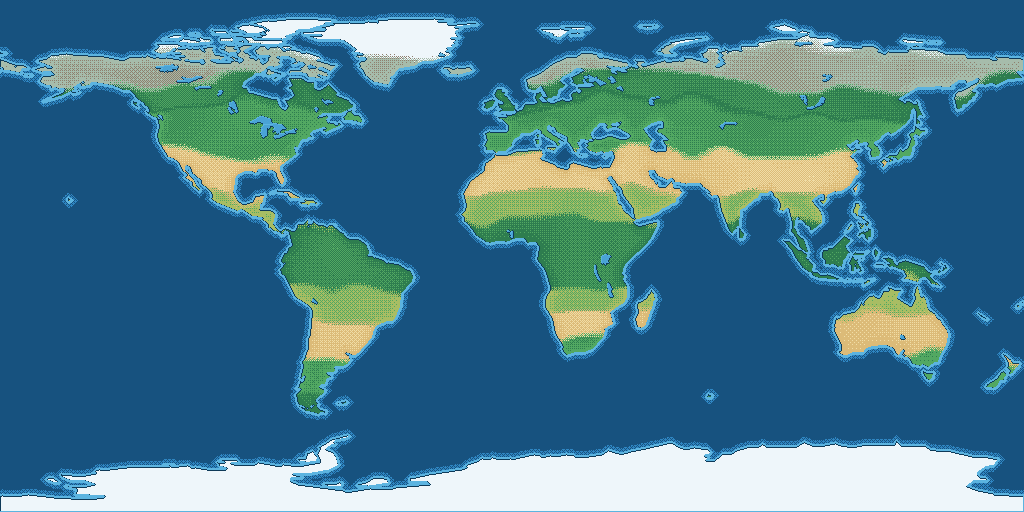
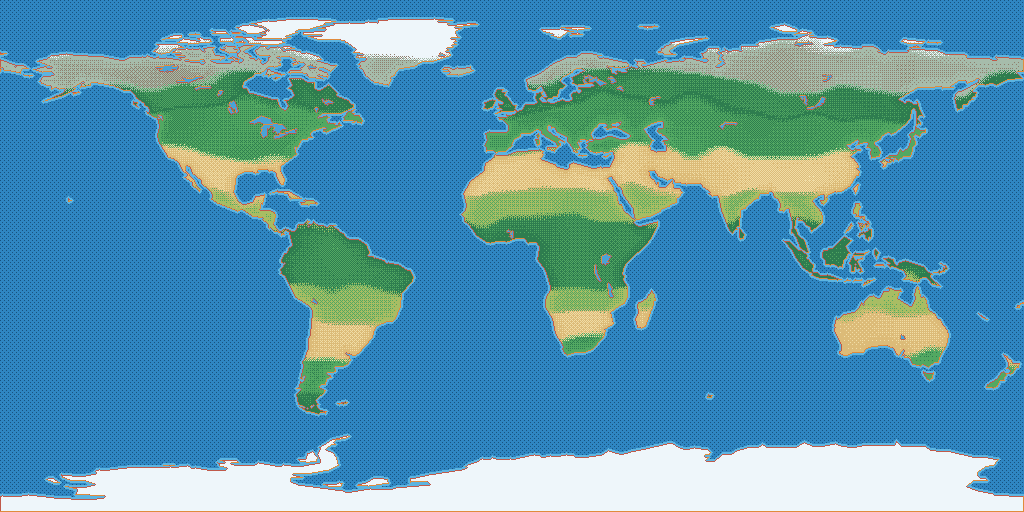
Cutaway cabin, orange seats, and the reference-style world map
Applied from the Pocket Planes reference set (qualities, not assets):

- The Trailhopper side profile is now a true cutaway: the fuselage side is open,
  showing a bright cabin band and an open hold. The bands are empty in the
  sprite — the game draws seats, passengers and crates onto the anchors, so the
  interior always shows the actual manifest. Six seat anchors on a four-seat
  airframe: the band is sized for the upgraded aircraft, so Cabin Plus visibly
  adds seats. A tiny pilot sits in the windscreen.
- Seats are bright orange against the white interior, per the reference.
- World map: bright saturated ocean as the base (a dark base reads as a void),
  pale shelf hugging the land, and a warm red-orange coastline that makes
  landmasses pop instead of dissolving into the sea.
- PixelLab: the cutaway direction is locked in the spec. bitforge (style-locked
  generation) is currently returning 500s server-side, and pixflux could not be
  steered to a true open-cabin cutaway (two candidates rejected: no interior /
  wrong facing), so the cutaway ships from the deterministic pipeline and the
  windowed production side sprite is retired to production/_retired/.

diff --git a/tools/pixelart/aircraft_side.py b/tools/pixelart/aircraft_side.py
@@ -56,14 +56,19 @@ class CharmSide:
 
 
 TRAILHOPPER = CharmSide(
-    canvas=(144, 96),
-    body_length=100, body_height=46,
-    nose_start=0.84, tail_end=0.24, tail_keep=0.34,
-    fin_height=28, fin_root=26,
-    gear_height=12, wheel_radius=8, prop_radius=19,
-    seat_slot=11, seats=4, seat_start=30, seat_step=13,
-    cargo_slot=11, cargo_slots=3, cargo_start=30, cargo_step=13,
-    seat_row_y=6, cargo_row_y=24,
+    # Longer than the first pass: the cutaway band needs runway. The band must
+    # end before the nose begins or it eats the windscreen, and it may overlap
+    # the tail cone only slightly.
+    canvas=(176, 96),
+    body_length=132, body_height=44,
+    nose_start=0.82, tail_end=0.20, tail_keep=0.36,
+    fin_height=27, fin_root=25,
+    gear_height=12, wheel_radius=8, prop_radius=16,
+    # Six seat anchors, not four: the cabin band is sized for the upgraded
+    # aircraft, so buying Cabin Plus visibly adds seats to the same airframe.
+    seat_slot=10, seats=6, seat_start=27, seat_step=12,
+    cargo_slot=10, cargo_slots=4, cargo_start=33, cargo_step=12,
+    seat_row_y=5, cargo_row_y=22,
 )
 
 
@@ -170,33 +175,37 @@ def _body(canvas: Canvas, style: CharmSide, livery: dict[str, str],
 
 def _cabin(canvas: Canvas, style: CharmSide, livery: dict[str, str],
            seats: list[tuple[int, int]], cargo: list[tuple[int, int]], station) -> None:
-    """Window frames and the cargo bay opening.
+    """The open cutaway interior — the defining feature of the plane screen.
 
-    Both are drawn as empty recesses. The game fills them with passengers and
-    crates, so what the player sees in them is the actual manifest.
+    Instead of windows, the fuselage side is cut away to show a bright cabin
+    band and an open hold. The band itself is empty: the game draws seats,
+    passengers and crates onto the anchors, so what the player sees inside the
+    aircraft is always the actual manifest (and upgrades add real seats).
     """
     slot = style.seat_slot
-    for x, y in seats:
-        canvas.rect(x, y, slot, slot, "glass")
-        canvas.rect_outline(x - 1, y - 1, slot + 2, slot + 2, livery["dark"])
-        canvas.hline(x, x + slot - 1, y, "glass_light")
+    if seats:
+        x0 = seats[0][0] - 2
+        x1 = seats[-1][0] + slot + 2
+        y0 = seats[0][1] - 2
+        height = slot + 5
+        canvas.rect(x0, y0, x1 - x0, height, "white")
+        canvas.hline(x0, x1 - 1, y0 + height - 2, "ice")        # cabin floor
+        canvas.hline(x0, x1 - 1, y0 + height - 1, "ice")
+        canvas.hline(x0, x1 - 1, y0, "ice_light")               # ceiling shade
+        canvas.rect_outline(x0 - 1, y0 - 1, x1 - x0 + 2, height + 2, livery["dark"])
+        canvas.rect_outline(x0, y0, x1 - x0, height, "outline")
 
     bay = style.cargo_slot
     if cargo:
         left = cargo[0][0] - 2
-        right = cargo[-1][0] + bay + 1
+        right = cargo[-1][0] + bay + 2
         top = cargo[0][1] - 2
-        # A lit interior, not a black cut-out: an unlit bay reads as a hole
-        # punched through the fuselage rather than as a space you can fill.
-        canvas.rect(left, top, right - left, bay + 3, "wall")
-        canvas.hline(left, right - 1, top, "shadow")
-        canvas.hline(left, right - 1, top + bay + 2, "wall_light")
-        canvas.rect_outline(left, top, right - left, bay + 3, livery["dark"])
-        for x, _y in cargo[1:]:
-            canvas.vline(x - 1, top + 1, top + bay + 1, "shadow")
-        # Open hatch flap above the bay: "this is where it loads".
-        canvas.rect(left + 1, top - 3, right - left - 2, 2, livery["light"])
-        canvas.hline(left + 1, right - 2, top - 3, livery["dark"])
+        height = bay + 4
+        canvas.rect(left, top, right - left, height, "ice_light")
+        canvas.hline(left, right - 1, top + height - 2, "ice")   # hold floor
+        canvas.hline(left, right - 1, top + height - 1, "ice")
+        canvas.rect_outline(left - 1, top - 1, right - left + 2, height + 2, livery["dark"])
+        canvas.rect_outline(left, top, right - left, height, "outline")
 
 
 def _wing(canvas: Canvas, style: CharmSide, livery: dict[str, str],
@@ -255,6 +264,12 @@ def _nose(canvas: Canvas, style: CharmSide, livery: dict[str, str],
         for dy in range(rows):
             canvas.plot(x, top + 2 + dy, "glass_light" if dy == 0 else "glass")
     canvas.vline(back - 1, station(back)[0] + 2, station(back)[0] + 10, "metal_dark")
+    # The pilot, visible through the glass: two pixels of person that make the
+    # aircraft read as crewed rather than empty.
+    var_top = station(back + 2)[0]
+    canvas.rect(back + 2, var_top + 4, 3, 3, "sand_light")
+    canvas.hline(back + 2, back + 4, var_top + 4, "soil")
+    canvas.rect(back + 2, var_top + 7, 3, 2, "btn_green")
 
     # Cowl.
     for x in range(nose - 5, nose + 1):

diff --git a/tools/artgen/spec.py b/tools/artgen/spec.py
@@ -29,7 +29,7 @@ NEGATIVE = (
     "gradient, colour banding, glow, noisy dithering, technical diagram, "
     "blueprint, schematic, cluttered detail, rivets, text, letters, numbers, "
     "logo, watermark, drop shadow, realistic proportions, long thin fuselage, "
-    "many wheels, landing gear bogies, facing left, jet engines"
+    "many wheels, landing gear bogies, facing left, jet engines, closed windows, portholes"
 )
 
 # Structured controls, chosen to match docs/PIXEL_STYLE_GUIDE.md exactly.
@@ -93,9 +93,10 @@ STARTER: list[AssetSpec] = [
             "side view of a tiny chunky cartoon bush aeroplane facing right, "
             "propeller and round nose at the right edge, tall tail fin at the "
             "left edge, stubby rounded fuselage twice as long as it is tall, "
-            "high wing, exactly four big round passenger windows in one row, "
-            "exactly two fat black wheels on short legs, cream body with an "
-            "orange belly stripe, flat blocks of solid colour with no gradients"
+            "open cutaway fuselage showing a bright white cabin interior with "
+            "a row of four empty orange passenger seats, high wing, exactly "
+            "two fat black wheels on short legs, cream body with an orange "
+            "belly stripe, flat blocks of solid colour with no gradients"
         ),
         size=(128, 96), view="side", direction="west", coverage=86.0,
         is_reference=True,
@@ -219,6 +220,17 @@ STARTER: list[AssetSpec] = [
         size=(16, 16), view="side", detail="low detail", coverage=80.0,
     ),
 ]
+
+
+STARTER.append(AssetSpec(
+    key="cloud",
+    logical="world/cloud_1.png",
+    prompt=(
+        "a single fluffy cartoon cloud, flat bottom, puffy rounded top, pure "
+        "white with pale ice-blue shading underneath, chunky and simple"
+    ),
+    size=(36, 16), view="side", detail="low detail", coverage=86.0,
+))
 
 
 def by_key(key: str) -> AssetSpec | None:

diff --git a/tools/build_world_geometry.py b/tools/build_world_geometry.py
@@ -51,8 +51,10 @@ BASE_URL = "https://raw.githubusercontent.com/nvkelso/natural-earth-vector/maste
 OCEAN_DEEP = "map_ocean_deep"
 OCEAN = "map_ocean"
 SHELF = "map_shelf"
-COAST = "map_coast"
-COAST_LIT = "map_shelf"
+# Warm coastline against saturated blue: the outline that makes landmasses pop
+# from the ocean instead of dissolving into it.
+COAST = "accent_red"
+COAST_LIT = "accent_orange"
 LAKE = "map_river"
 BORDER = "map_coast"
 
@@ -359,13 +361,14 @@ def render(lod: Lod) -> Image.Image:
 
     field = bayer(lod.height, lod.width)
     rgb_buffer = np.zeros((lod.height, lod.width, 3), dtype=np.uint8)
-    rgb_buffer[:] = rgb(OCEAN_DEEP)
 
     # Shelf and open-ocean rings separate land from deep water without relying
     # on the coastline outline to do all the work.
+    # Bright ocean as the base — a dark base reads as a void, not a sea — with
+    # only a light sparkle of deep water and a pale shelf hugging the land.
+    rgb_buffer[:] = rgb(OCEAN)
+    dither_mix(rgb_buffer, ~land, OCEAN, OCEAN_DEEP, 0.12, field)
     shelf = dilate(land, lod.shelf_px) & ~land
-    open_ocean = dilate(land, lod.shelf_px * 3) & ~land & ~shelf
-    dither_mix(rgb_buffer, open_ocean, OCEAN, OCEAN_DEEP, 0.35, field)
     rgb_buffer[shelf] = rgb(SHELF)
 
     # Land colour by latitude band, with the interior stippled darker.

diff --git a/tools/pixelart/scenery.py b/tools/pixelart/scenery.py
@@ -477,14 +477,14 @@ def portrait(hair: str, shirt: str) -> Canvas:
 
 
 def seat_empty() -> Canvas:
-    """An empty cabin seat, drawn into a window slot so 0/4 reads as four
-    visibly empty seats rather than four dark rectangles."""
+    """An empty cabin seat for the cutaway band — bright orange, so an empty
+    place reads instantly against the white interior."""
     canvas = Canvas(11, 11)
-    canvas.rect(1, 1, 3, 8, "roof_cargo")       # backrest
-    canvas.vline(1, 1, 8, "sand_light")
-    canvas.rect(1, 7, 8, 3, "roof_cargo")       # cushion
-    canvas.hline(1, 8, 7, "sand_light")
-    canvas.hline(2, 8, 9, "soil")
+    canvas.rect(1, 1, 3, 8, "accent_orange")     # backrest
+    canvas.vline(1, 1, 8, "accent_orange_light")
+    canvas.rect(1, 7, 8, 3, "accent_orange")     # cushion
+    canvas.hline(1, 8, 7, "accent_orange_light")
+    canvas.hline(2, 8, 9, "accent_red")
     canvas.outline()
     return canvas
 
